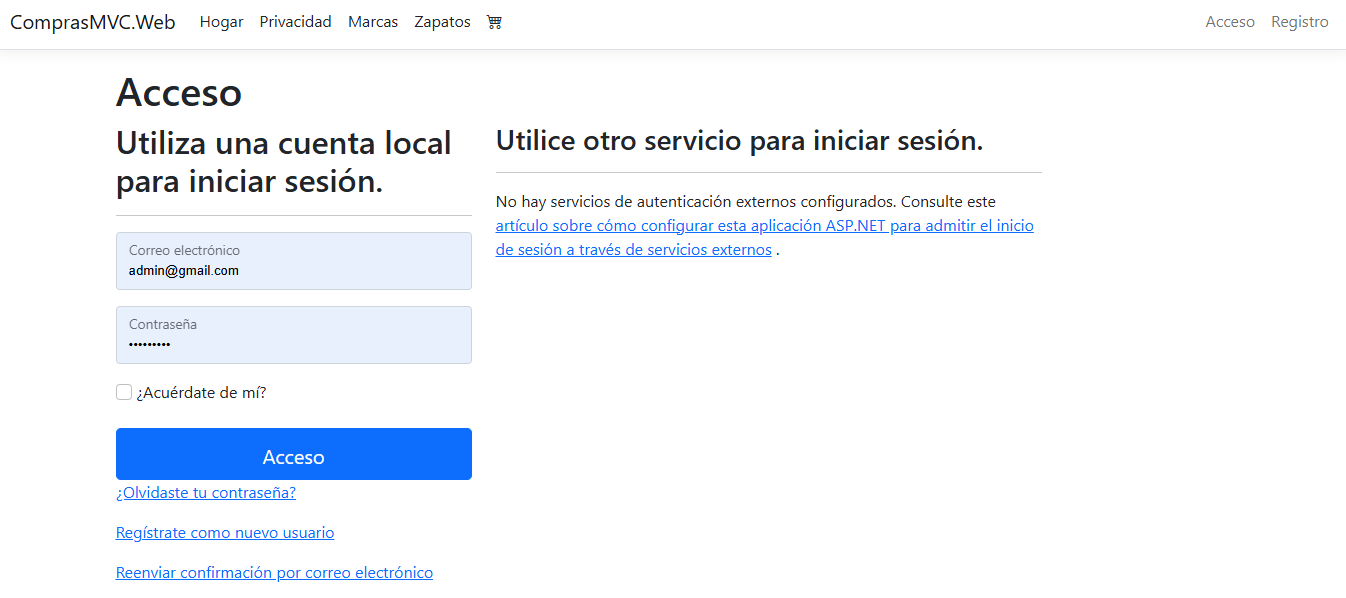
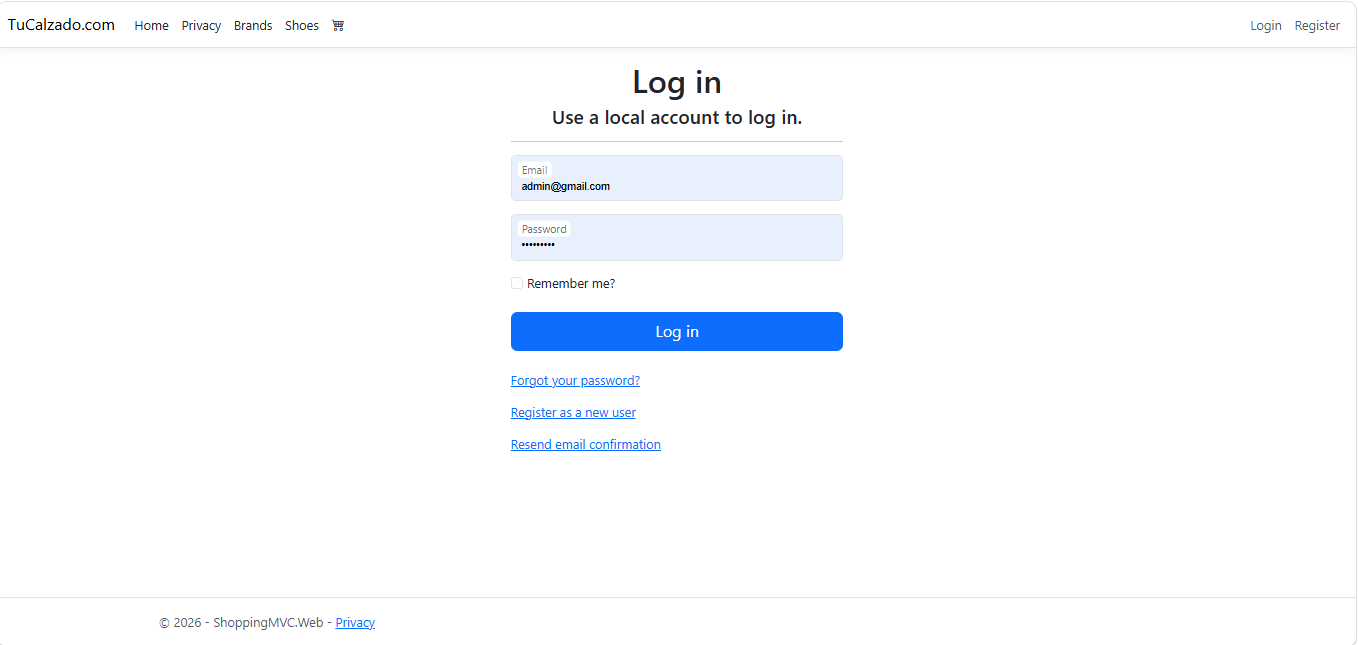
Actualización de README y capturas

diff --git a/README.md b/README.md
@@ -1,136 +1,172 @@
-# Shoes & Brands - ASP.NET Core MVC (CRUD)
-# Shopping Cart system (add, update, remove, checkout)
+# 👟 Shoe-Brands
 
-This project is a simple but complete ASP.NET Core MVC application that implements CRUD operations for **Brands** and **Shoes**, using a clean architecture approach with **Repository + Service**, **Entity Framework Core**, **AutoMapper**, and a Bootstrap UI.
+### Tienda Online de Calzado | ASP.NET Core MVC
 
-It was built as a portfolio project to practice real MVC patterns, database relationships, view models, validation, and pagination.
+![Shoe-Brands](screenshots/Welcome.png)
 
 ---
 
-## 🧠 Tech Stack
+## 💡 Sobre el proyecto
 
+De aprender a construir.
+
+Shoe-Brands fue mi proyecto final de carrera, desarrollado como cierre de mi formación en Análisis, Desarrollo y Programación de Aplicaciones.
+
+El objetivo fue integrar los conocimientos adquiridos durante mis estudios en el desarrollo de una aplicación web completa, abarcando tanto la experiencia del usuario como la lógica del negocio.
+
+La aplicación simula una tienda online de calzado, donde los usuarios pueden explorar productos, filtrarlos por marca, talle y color, agregar artículos al carrito y realizar compras.
+
+También incorpora autenticación de usuarios y gestión de roles, con diferentes permisos para administradores y clientes.
+
+Más que una aplicación de gestión (CRUD), Shoe-Brands fue una oportunidad para llevar la teoría a la práctica y experimentar el proceso de desarrollo de una aplicación completa, desde el diseño de la base de datos hasta la interfaz de usuario
+
+---
+
+### Backend
+
+- C#
 - ASP.NET Core MVC
 - Entity Framework Core
 - SQL Server
+
+### Arquitectura y herramientas
+
+- Repository Pattern
+- Service Layer
 - AutoMapper
+- Inyección de dependencias (DI)
+
+### Frontend
+
+- HTML5
+- CSS3
+- JavaScript
 - Bootstrap
-- Repository Pattern + Service Layer
-- PagedList (pagination)
 
----
-## ✨ Features
+### Autenticación y seguridad
 
-### ✅ Brands Module (CRUD)
-- Create, edit, list and delete brands
-- Validation and duplicate record checks
-- User-friendly messages
-
-### ✅ Shoes Module (CRUD)
-- Create, edit, list and delete shoes
-- Shoes are linked to a Brand (FK relationship)
-- Brand names are displayed using EF Core `Include`
-
-### ✅ General
-- Pagination in listing views
-- Bootstrap UI (clean and readable)
-- Server-side validation with Data Annotations
-- Proper error handling (`NotFound`, `ModelState`, etc.)
-- Repository pattern with optional filters and includes
-- `AsNoTracking()` used for read-only queries
-
-### 🔐 Authentication
-- User authentication implemented using ASP.NET Core Identity
-- Secure access to application features
-
-
-## 🛒 Shopping Cart Module
-
-This module includes a complete shopping flow:
-
-- Add products to the cart
-- Update product quantities
-- Display cart contents
-- Calculate total price with discounts
-- Order summary view
-- Order creation and confirmation
----
-
-## 🗂 Project Structure (high level)
-
-- **Controllers** → Handle HTTP requests and view flow  
-- **Services** → Business logic and validations  
-- **Repository** → Data access layer (EF Core)  
-- **Entities/Models** → Database entities (Brand, Shoe)  
-- **ViewModels** → Models used by the views (Edit/List)  
-- **Mapping Profiles** → AutoMapper configuration  
+- ASP.NET Core Identity
+- Autorización basada en roles
 
 ---
 
-## 🔍 Notes about EF Core (Include & AsNoTracking)
+## ✨ Funcionalidades
 
-This project uses:
+### 🏷 Módulo de Marcas (CRUD)
 
-- `Include("Brand")` to load navigation properties and display Brand names in the Shoe list.
-- `AsNoTracking()` for better performance on listing queries.
+- Crear, editar, listar y eliminar marcas.
+- Validaciones y control de registros duplicados.
+- Mensajes informativos para el usuario.
+
+### 👟 Módulo de Calzado (CRUD)
+
+- Crear, editar, listar y eliminar productos.
+- Relación entre calzado y marca mediante clave foránea (FK).
+- Visualización del nombre de la marca utilizando `Include` de Entity Framework Core.
+
+### ⚙ Funcionalidades generales
+
+- Paginación en las vistas de listado.
+- Interfaz desarrollada con Bootstrap.
+- Validaciones del lado del servidor mediante Data Annotations.
+- Manejo de errores y respuestas adecuadas (`NotFound`, `ModelState`, entre otros).
+- Repository Pattern con soporte para filtros e inclusión de relaciones.
+- Uso de `AsNoTracking()` para consultas de solo lectura.
+
+### 🔐 Autenticación y autorización
+
+- Autenticación de usuarios mediante ASP.NET Core Identity.
+- Registro e inicio de sesión.
+- Gestión de roles y permisos.
+- Acceso diferenciado según el tipo de usuario.
+
+### 🛒 Módulo de carrito de compras
+
+- Agregar productos al carrito.
+- Modificar las cantidades de los productos.
+- Visualizar el contenido del carrito.
+- Calcular el precio total aplicando descuentos.
+- Visualizar el resumen de la compra.
+- Generar y confirmar pedidos.
 
 ---
 
-## ▶ How to Run Locally
+## 🗂 Estructura del proyecto
 
-1. Clone the repository
-2. Open the solution in Visual Studio
-3. Update the SQL Server connection string in:
+- **Controllers:** gestionan las solicitudes HTTP y el flujo de navegación.
+- **Services:** contienen la lógica de negocio y las validaciones.
+- **Repository:** se encarga del acceso a datos mediante Entity Framework Core.
+- **Entities / Models:** representan las entidades del sistema, como Brand y Shoe.
+- **ViewModels:** contienen los modelos utilizados por las vistas.
+- **Mapping Profiles:** configuran las correspondencias entre objetos mediante AutoMapper.
+
+---
+
+## 🔍 Detalles de implementación con Entity Framework Core
+
+- `Include("Brand")`: permite cargar las propiedades de navegación y mostrar los nombres de las marcas en el listado de calzado.
+- `AsNoTracking()`: se utiliza en consultas de solo lectura para evitar el seguimiento de cambios y mejorar el rendimiento.
+
+---
+
+## ▶ Cómo ejecutar el proyecto
+
+1. Clonar el repositorio.
+2. Abrir la solución en Visual Studio.
+3. Configurar la cadena de conexión de SQL Server en:
    - `appsettings.json` → `ConnectionStrings:MyConnection`
-4. Apply migrations:
+4. Aplicar las migraciones de Entity Framework Core:
    - `Update-Database`
-5. Run the project (IIS Express or Kestrel)
+5. Ejecutar el proyecto utilizando IIS Express o Kestrel.
 
 ---
 
-## 📸 Screenshots
+## 📸 Galería de imágenes
 
-- Brands List  
-![Brand List](screenshots/BrandList.png)
+- Listado de Marcas
+  ![Brand List](screenshots/BrandList.png)
 
-- Shoes List (with Brand Name)  
-![Shoe List](screenshots/ShoesList.png)
+- Listado de Calzado - Usuarios
+  ![Shoe List](screenshots/ShoesList.png)
+  - Listado de Calzado - Admin
+    ![Shoe List](screenshots/ShoesListAdmin.png)
 
-- Shoe Create/Edit Form  
-![Shoe Create/Edit Form](screenshots/Shoe-Create_Edit-Form.png)
+- Formulario de creación y edicion de calzado  
+  ![Shoe Create/Edit Form](screenshots/Shoe-Create_Edit-Form.png)
 
-- Login (Identity)
-![Login](screenshots/Login.PNG)
+- Inicio de sesión
+  ![Login](screenshots/Login.PNG)
 
- - Register (Identity)
-![Login](screenshots/Register.PNG)
+- Registro de usuario
+  ![Login](screenshots/Register.PNG)
 
- - Order Confirmed (Shopping Cart)
-![Order Confirmed](screenshots/Order_Confirmed.PNG)
+- Confirmación de pedido
+  ![Order Confirmed](screenshots/Order_Confirmed.PNG)
 
-## 🚀 Future Improvements (planned)
+## 🚀 Mejoras y próximas funcionalidades
 
-This project is actively evolving.
+### ✔ Implementado
 
-### ✔ Implemented
-- Full CRUD for Brands and Shoes
-- Entity relationships with EF Core
-- Clean architecture (Repository + Service)
-- Authentication with ASP.NET Core Identity
-- Shopping Cart
+- CRUD completo de marcas y productos.
+- Relaciones entre entidades mediante Entity Framework Core.
+- Arquitectura Repository + Service.
+- Autenticación mediante ASP.NET Core Identity.
+- Carrito de compras.
 
-### 🔄 In Progress
-- Add product size management
+### 🔄 En desarrollo
 
-### 🔜 Planned
-- Stock management (by size and/or color)
+- Incorporación de gestión de talles para los productos.
+
+### 🔜 Próximas mejoras
+
+- Gestión de stock por talle y/o color.
 
 ---
 
-## 👤 Author
+## 👩💻 Autora
 
 **Romina Oviedo**  
-Técnica en Análisis, Desarrollo y Programación de Aplicaciones 
-Focused on building clean, maintainable software with both technical and human quality.
+Interesada en el desarrollo de software mantenible,
+con atención tanto a la calidad técnica como a la experiencia de usuario.
 
 - LinkedIn: www.linkedin.com/in/romina-oviedo-1b24bb2a3
-- GitHub: https://github.com/RomiOviedo/MVC-ShoesBrands-CRUD.git
